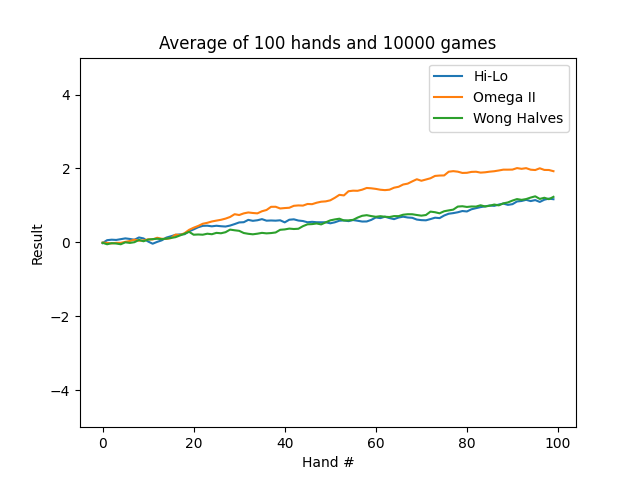
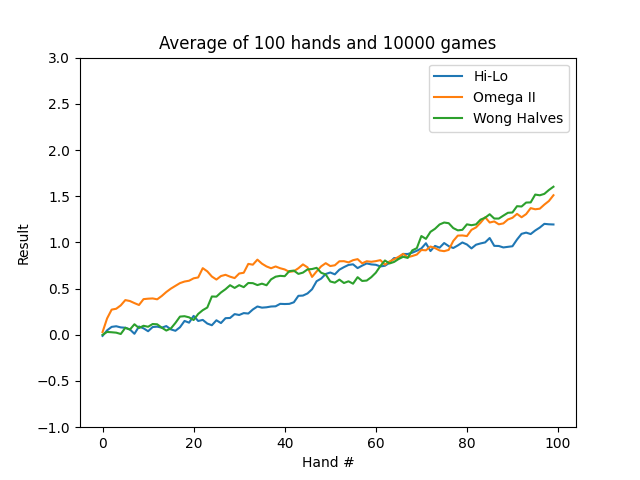
Multiple graphs for the report

diff --git a/main.py b/main.py
@@ -658,13 +658,13 @@ def averageRows(rows, strat):
     # plt.cla()
     #  linestyle=":", linewidth = 3,
     plt.plot(y, avgRow, label = strat)
-    plt.ylim(-10, 10)
+    plt.ylim(-2, 1)
     plt.xlabel("Hand #")
     plt.ylabel("Result")
     plt.title("Average of 100 hands and 10000 games")
     plt.legend()
     # plt.axhline(y = 0, color = 'r', linestyle = '-') 
-    plt.savefig(f"all-allfig")
+    plt.savefig(f"omega-betting-methods")
 
 
 
@@ -1240,7 +1240,20 @@ def plotting():
     plt.tight_layout()
     plt.show()
 
+def newPlot():
+    methods = ["Hi-Lo", "Omega II", "Wong Halves"]
+    avg_profit = [0.0116, 0.0192, 0.0123]
+    std_dev = [0.3486, 0.3644, 0.3458]
+    plt.figure(figsize=(8, 6))
+    plt.bar(methods, avg_profit, yerr=std_dev, capsize=10, color=['skyblue', 'salmon'])
 
+
+    plt.ylabel('Average Profit per Hand')
+    plt.title('Card Counting Method Performance with Standard Deviation')
+    plt.grid(axis='y', linestyle='--', alpha=0.7)
+    plt.tight_layout()
+
+    plt.show()
 
 choice = input("Normal, Mimic The Dealer, Never Bust or Basic Strategy? ")
 if choice.lower() == "mimic":
@@ -1250,20 +1263,20 @@ elif choice.lower() == "never":
 elif choice.lower() == "basic":
     results = []
     labels = []
-    strats= ["BS Full", "BS No Split", "BS No Double", "BS No Split or Double"]
+    strats= ["Flat Betting", "1-8", "1-12", "1-16"]
+    names  = [0, 1, 2, 3]
     variants = [
         {"split": True, "double": True},
         {"split": False, "double": True},
         {"split": True, "double": False},
         {"split": False, "double": False},
     ]
-    for variant, strat in zip(variants, strats):
-        label = f"Splits: {variant['split']}, Double: {variant['double']}"
-        result = basic_strategy_main(0, "hilo", 1, variant['split'], variant['double'], strat)
+    for name, strat in zip(names, strats):
+        result = basic_strategy_main(name, "omega", 6, True, True, strat)
         results.append(result)
-        labels.append(label)
-    mimic_wr, mimic_pr, mimic_lr, mimic_avgprofit = main_mimic("Mimic")
-    neverb_wr, neverb_pr, neverb_lr, neverb_avgprofit = main_never_bust("NeverB")
+        # labels.append(label)
+    # mimic_wr, mimic_pr, mimic_lr, mimic_avgprofit = main_mimic("Mimic")
+    # neverb_wr, neverb_pr, neverb_lr, neverb_avgprofit = main_never_bust("NeverB")
     # basic_strategy_main(0, "hilo", 1)
 
     # avgprofits = []
@@ -1281,6 +1294,8 @@ elif choice.lower() == "basic":
     # print(avgprofits)
     # print(standarddevs)
 
+
+
 elif choice.lower() == "normal":
     blackjack()
 elif choice.lower() == "loop":
@@ -1291,3 +1306,7 @@ elif choice.lower() == "hist":
     loop_hist(1)
 elif choice.lower() == "plot":
     plotting()
+elif choice.lower() == "new":
+    newPlot()
+
+
